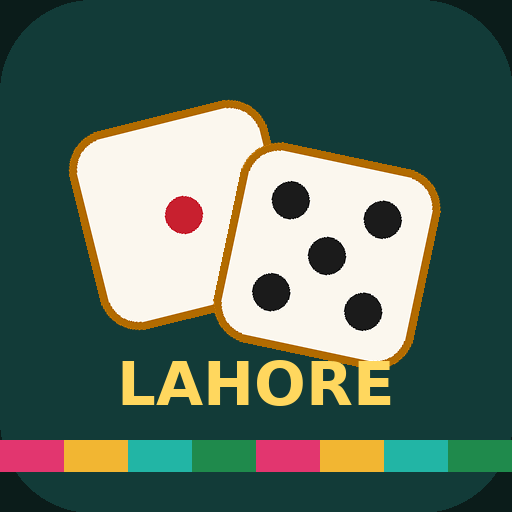
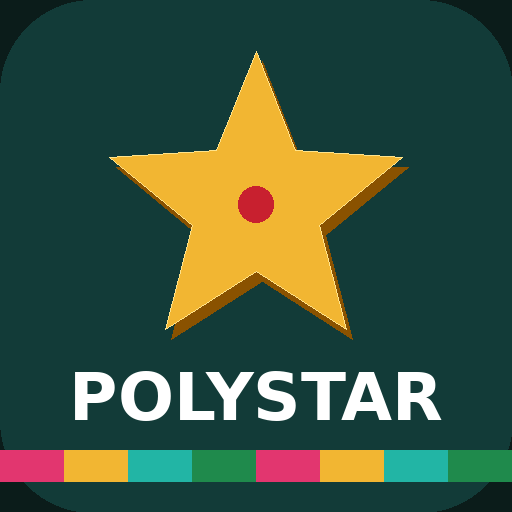
Rebrand to PolyStar: Become a Raees of Lahore
Claude-Session: https://claude.ai/code/session_01Rsdvw9Mjbyzo6TNnQu2srd

diff --git a/index.html b/index.html
@@ -3,8 +3,8 @@
 <head>
 <meta charset="utf-8">
 <meta name="viewport" content="width=device-width, initial-scale=1, viewport-fit=cover">
-<meta name="description" content="Lahore Monopoly: a 3D board game in Pakistani Rupees. Play on one device or online with friends.">
-<title>Lahore Monopoly</title>
+<meta name="description" content="PolyStar: Become a Raees of Lahore. A 3D property game in Pakistani Rupees. Play on one device or online with friends.">
+<title>PolyStar</title>
 <link rel="preconnect" href="https://fonts.googleapis.com">
 <link rel="preconnect" href="https://fonts.gstatic.com" crossorigin>
 <meta name="theme-color" content="#0b1c1a">
@@ -223,7 +223,10 @@ button:focus-visible,input:focus-visible{outline:3px solid #fff;outline-offset:2
 .logo{text-align:center;display:grid;justify-items:center;gap:6px}
 .logo-top{background:var(--rose);color:#fff;font:normal 14px var(--f-game);letter-spacing:.08em;text-transform:uppercase;padding:6px 16px 4px;border-radius:999px;box-shadow:0 4px 0 var(--redE)}
 .logo h1{margin:0;font:normal clamp(56px,15vw,96px)/.92 var(--f-game);color:var(--gold1);text-shadow:0 5px 0 var(--goldE),0 10px 0 #4a2a00,0 18px 30px rgba(0,0,0,.5);text-transform:uppercase;letter-spacing:.01em}
-.logo h1 span{color:#fff;text-shadow:0 5px 0 var(--red2),0 10px 0 #5a0a26,0 18px 30px rgba(0,0,0,.5);font-size:.62em}
+.logo h1 span{color:#fff;text-shadow:0 5px 0 var(--red2),0 10px 0 #5a0a26,0 18px 30px rgba(0,0,0,.5);font-size:1em}
+.tagline{font:normal clamp(17px,4.6vw,24px) var(--f-game);color:#fff;letter-spacing:.03em;text-shadow:0 3px 0 rgba(0,0,0,.45);margin-top:6px}
+.tagline::before,.tagline::after{content:'★';color:var(--gold1);margin:0 .45em;font-size:.8em;vertical-align:.08em}
+.ilogo .tagline{animation:dropIn2 .6s .6s both}
 .logo-sub{color:var(--muted);font-weight:800;font-size:15px}
 .strip{height:8px;border-radius:4px;background:var(--truck);width:min(260px,70%);margin:4px auto 0}
 .facts{display:flex;flex-wrap:wrap;gap:8px;justify-content:center}
@@ -309,7 +312,7 @@ button:focus-visible,input:focus-visible{outline:3px solid #fff;outline-offset:2
 .ilogo{display:grid;justify-items:center;gap:6px}
 .ilogo .logo-top{animation:dropIn2 .7s .1s cubic-bezier(.2,1.5,.4,1) both}
 .ilogo h1{margin:0;font:normal clamp(58px,16vw,110px)/.9 var(--f-game);color:var(--gold1);text-transform:uppercase;text-shadow:0 5px 0 var(--goldE),0 10px 0 #4a2a00,0 20px 34px rgba(0,0,0,.55);animation:logoPop .9s .25s cubic-bezier(.2,1.6,.4,1) both}
-.ilogo h1 span{display:block;margin-top:.18em;color:#fff;font-size:.6em;text-shadow:0 5px 0 var(--red2),0 10px 0 #5a0a26,0 20px 34px rgba(0,0,0,.55);animation:logoPop .9s .45s cubic-bezier(.2,1.6,.4,1) both}
+.ilogo h1 span{color:#fff;font-size:1em;text-shadow:0 5px 0 var(--red2),0 10px 0 #5a0a26,0 20px 34px rgba(0,0,0,.55);animation:logoPop .9s .45s cubic-bezier(.2,1.6,.4,1) both}
 @keyframes logoPop{0%{opacity:0;transform:scale(.3) rotate(-8deg)}100%{opacity:1;transform:none}}
 @keyframes dropIn2{0%{opacity:0;transform:translateY(-40px)}100%{opacity:1;transform:none}}
 .idice{display:flex;gap:26px;perspective:600px;height:70px;align-items:center;animation:dropIn2 .7s .6s both}
@@ -444,7 +447,7 @@ a.gbtn{text-decoration:none;display:inline-block}
 </head>
 <body>
 
-<canvas id="gl" aria-label="3D Lahore Monopoly board"></canvas>
+<canvas id="gl" aria-label="3D PolyStar board"></canvas>
 
 <div class="hud" id="hud" hidden>
   <div id="players"></div>
@@ -488,18 +491,18 @@ a.gbtn{text-decoration:none;display:inline-block}
 <div id="cardView" hidden><div class="cvin" id="cvin"></div></div>
 <div class="modal" id="modal" hidden><div class="mcard" id="mcard"></div></div>
 
-<div id="intro" role="button" tabindex="0" aria-label="Lahore Monopoly is loading. Tap to start when ready.">
+<div id="intro" role="button" tabindex="0" aria-label="PolyStar is loading. Tap to start when ready.">
   <div class="stars"></div>
   <span class="ikite" style="left:8%;top:12%;--a:#e2366f;--b:#f2b632"><i></i></span>
-  <span class="ikite" style="right:10%;top:20%;--a:#22b5a5;--b:#fbf7ee;animation-delay:-2s"><i></i></span>
+  <span class="ikite" style="right:8%;top:6%;--a:#22b5a5;--b:#fbf7ee;animation-delay:-2s"><i></i></span>
   <span class="ikite" style="left:6%;top:64%;--a:#8f5cff;--b:#f08a1c;animation-delay:-1s;width:30px;height:30px"><i></i></span>
   <span class="ikite" style="right:8%;top:70%;--a:#1f8a4c;--b:#e2366f;animation-delay:-3s;width:34px;height:34px"><i></i></span>
   <div class="ic-wrap">
-    <div class="ilogo"><div class="logo-top">Zinda Dilan-e-Lahore</div><h1>Lahore<span>Monopoly</span></h1></div>
+    <div class="ilogo"><div class="logo-top">Zinda Dilan-e-Lahore</div><h1>Poly<span>Star</span></h1><div class="tagline">Become a Raees of Lahore</div></div>
     <div class="idice"><div class="d3" id="dA"></div><div class="d3" id="dB"></div></div>
     <div class="iload" id="iload"><div class="ibar"><i id="ibarFill"></i></div></div>
     <div class="itap" id="itap" hidden>Tap to start</div>
-    <p class="funline" aria-live="polite"><span>Roll the dice, buy Lahore, become a tycoon! 🎲</span></p>
+    <p class="funline" aria-live="polite"><span>Roll the dice and become a Raees of Lahore! 🎲</span></p>
   </div>
   <div class="iskyline"><svg viewBox="0 0 400 120" preserveAspectRatio="xMidYMax slice" aria-hidden="true">
     <g fill="#0a1a18" opacity=".55">
@@ -525,10 +528,11 @@ a.gbtn{text-decoration:none;display:inline-block}
     <button class="ib musicbtn" id="lMusic" aria-label="Music" aria-pressed="true" title="Music on"></button>
     <div class="logo">
       <div class="logo-top">Zinda Dilan-e-Lahore</div>
-      <h1>Lahore<br><span>Monopoly</span></h1>
+      <h1>Poly<span>Star</span></h1>
+      <div class="tagline">Become a Raees of Lahore</div>
       <div class="strip"></div>
       <div class="logo-sub">3D board game · Pakistani Rupees · 100 pawns</div>
-      <p class="funline" aria-live="polite"><span>Roll the dice, buy Lahore, become a tycoon! 🎲</span></p>
+      <p class="funline" aria-live="polite"><span>Roll the dice and become a Raees of Lahore! 🎲</span></p>
     </div>
     <div class="facts">
       <span class="fact">Start <b>Rs 0</b></span>
@@ -794,8 +798,8 @@ function drawCenter(x){
  deck(S*.29,S*.29,'#d93d8c','Qismat','CHANCE');deck(S*.71,S*.71,'#22a597','Mohalla','CHEST');
  x.save();x.translate(S/2,S/2);x.rotate(Math.PI/4);x.textAlign='center';x.textBaseline='middle';
  x.fillStyle='#1b1b1b';rr(x,-412,-122,824,244,30);x.fill();x.fillStyle='#c8202f';rr(x,-400,-110,800,220,24);x.fill();x.lineWidth=8;x.strokeStyle='#fbf7ee';rr(x,-384,-94,768,188,18);x.stroke();
- x.fillStyle='#fbf7ee';x.font='170px "Rozha One", Georgia, serif';x.fillText('LAHORE',0,14);
- x.fillStyle='#1b1b1b';x.font='800 60px Mukta, sans-serif';x.fillText('M O N O P O L Y',0,176);
+ x.fillStyle='#fbf7ee';{let fs=170;x.font=fs+'px "Rozha One", Georgia, serif';while(x.measureText('PolyStar').width>700&&fs>90){fs-=6;x.font=fs+'px "Rozha One", Georgia, serif';}}x.fillText('PolyStar',0,14);
+ x.fillStyle='#1b1b1b';x.font='800 48px Mukta, sans-serif';x.fillText('★ RAEES OF LAHORE ★',0,172);
  x.fillStyle='#1f8a4c';x.font='600 30px Mukta, sans-serif';x.fillText('ZINDA DILAN-E-LAHORE',0,-160);x.restore();
 }
 function drawBoard(){
@@ -1511,7 +1515,7 @@ async function gameLoop(){try{while(true){const p=cur();if(!p.bankrupt)await pla
 function showWinner(w){stopTimer();focusObj=w?w.obj:null;renderPlayers();renderBar(w||G.players[0],[{k:'_n',label:'New game',primary:1,act:()=>newGame()}],'Game over.');
  const rank=[...G.players].sort((a,b)=>netWorth(b)-netWorth(a));
  if(NET.role==='host')bc({t:'over',w:w?w.i:-1,rank:rank.map(q=>q.i),nw:w?netWorth(w):0});
- sfx('win');modal(`<div class="panel win"><div class="trophy">🏆</div><div class="eyebrow">Game over</div><h2>${esc(w?w.name:'Nobody')} owns Lahore</h2><p>Final net worth ${short(w?netWorth(w):0)}</p><p style="margin-top:10px;font-size:13px">${rank.map(q=>esc(q.name)+(q.bankrupt?' (bankrupt)':'')).join(' · ')}</p></div>`,[{k:'new',label:'Play again',primary:1},{k:'x',label:'Look at the board'}]).then(k=>{if(k==='new')newGame();}).catch(()=>{});}
+ sfx('win');modal(`<div class="panel win"><div class="trophy">🏆</div><div class="eyebrow">Game over</div><h2>${esc(w?w.name:'Nobody')} is the Raees of Lahore! 👑</h2><p>Final net worth ${short(w?netWorth(w):0)}</p><p style="margin-top:10px;font-size:13px">${rank.map(q=>esc(q.name)+(q.bankrupt?' (bankrupt)':'')).join(' · ')}</p></div>`,[{k:'new',label:'Play again',primary:1},{k:'x',label:'Look at the board'}]).then(k=>{if(k==='new')newGame();}).catch(()=>{});}
 
 /* ---------------- setup screen ---------------- */
 const NAMES=['You','Ayesha','Bilal','Zara','Hamza','Mahnoor'];
@@ -1719,7 +1723,7 @@ const TIPS=['Loading the streets of Lahore…','Tip: own a whole colour set to b
 function introProgress(){const th=THUMBS.filter(Boolean).length/PAWNS.length,pv=Object.keys(THEME_PREV).length/THEME_KEYS.length;return Math.min(1,(INTRO.fonts?.15:0)+.45*th+.4*pv);}
 const introTimer=setInterval(()=>{if(INTRO.done){clearInterval(introTimer);return;}const el=performance.now()-INTRO.t0;let p=introProgress();
  if(el>9000)p=1;document.getElementById('ibarFill').style.width=Math.round(Math.max(p,Math.min(.92,el/6000))*100)+'%';
- if(!INTRO.ready&&p>=1&&el>1800){INTRO.ready=true;$('#iload').hidden=true;$('#itap').hidden=false;$('#intro').setAttribute('aria-label','Tap to start Lahore Monopoly');}},120);
+ if(!INTRO.ready&&p>=1&&el>1800){INTRO.ready=true;$('#iload').hidden=true;$('#itap').hidden=false;$('#intro').setAttribute('aria-label','Tap to start PolyStar');}},120);
 function introGo(){if(!INTRO.ready||INTRO.done)return;INTRO.done=true;sfx('buy');buzz(30);
  if(MUSIC.on){musicStart();rainStart();}
  const el=$('#intro');el.classList.add('out');setTimeout(()=>{el.hidden=true;},650);}
@@ -1918,7 +1922,7 @@ function drawClientBar(){if(!G||NET.role!=='client')return;const mine=G.players[
  drawBar();}
 function clientOver(d){G.over=true;const w=G.players[d.w];focusObj=w?w.obj:null;sfx('win');
  bar={p:w||G.players[0],btns:[{k:'_n',label:'Back to menu',primary:1,act:()=>newGame()}],status:'Game over.'};drawBar();
- modal(`<div class="panel win"><div class="trophy">🏆</div><div class="eyebrow">Game over</div><h2>${esc(w?w.name:'Nobody')} owns Lahore</h2><p>Final net worth ${short(d.nw||0)}</p><p style="margin-top:10px;font-size:13px">${d.rank.map(i=>esc(G.players[i].name)).join(' · ')}</p></div>`,[{k:'menu',label:'Back to menu',primary:1},{k:'x',label:'Look at the board'}]).then(k=>{if(k==='menu')newGame();}).catch(()=>{});}
+ modal(`<div class="panel win"><div class="trophy">🏆</div><div class="eyebrow">Game over</div><h2>${esc(w?w.name:'Nobody')} is the Raees of Lahore! 👑</h2><p>Final net worth ${short(d.nw||0)}</p><p style="margin-top:10px;font-size:13px">${d.rank.map(i=>esc(G.players[i].name)).join(' · ')}</p></div>`,[{k:'menu',label:'Back to menu',primary:1},{k:'x',label:'Look at the board'}]).then(k=>{if(k==='menu')newGame();}).catch(()=>{});}
 function clientClosed(){if(NET.role!=='client')return;const inGame=G&&!G.over;NET.role='local';NET.hostConn=null;
  if(inGame){toast('Lost connection to the host');modal(`<div class="panel win"><div class="eyebrow">Connection lost</div><h2>The host left the game</h2><p>The game can't continue without the host's device.</p></div>`,[{k:'menu',label:'Back to menu',primary:1}]).then(()=>newGame()).catch(()=>{});}
  else if(!G){netMsg('The host closed the room.');showNetStart();}}
@@ -1932,7 +1936,7 @@ function netTeardown(){const r=NET.role;
 function showNetStart(){$('#netStart').hidden=false;$('#roomBox').hidden=true;}
 function showRoom(){$('#netStart').hidden=true;$('#roomBox').hidden=false;
  let base=location.href.split('#')[0].split('?')[0];const link=base+'?room='+NET.code;
- $('#roomCode').textContent=NET.code;$('#roomLink').value=link;$('#waBtn').href='https://wa.me/?text='+encodeURIComponent(`Join my Lahore Monopoly game! Room ${NET.code}: ${link}`);renderRoom();}
+ $('#roomCode').textContent=NET.code;$('#roomLink').value=link;$('#waBtn').href='https://wa.me/?text='+encodeURIComponent(`Join my PolyStar game and become a Raees of Lahore! Room ${NET.code}: ${link}`);renderRoom();}
 function renderRoom(){const host=NET.role==='host',mi=host?0:NET.me;
  $('#hostActs').hidden=!host;
  $('#roomList').innerHTML=NET.lobby.map((e,i)=>{const tags=[e.kind==='host'?'HOST':e.kind==='cpu'?'CPU':'ONLINE'];if(i===mi)tags.unshift('YOU');

diff --git a/README.md b/README.md
@@ -1,6 +1,8 @@
-# Lahore Monopoly
+# PolyStar
 
-A 3D Monopoly game set in Lahore, priced in Pakistani Rupees. Shahdara is the cheapest square (Rs 6 Lac) and DHA Phase 6 the most expensive (Rs 40 Lac). There are 100 pawns, CPU opponents and sound effects. You can play on one device or online with friends.
+**Become a Raees of Lahore.**
+
+A 3D property-trading game set in Lahore, priced in Pakistani Rupees. Shahdara is the cheapest square (Rs 6 Lac) and DHA Phase 6 the most expensive (Rs 40 Lac). There are 100 pawns, CPU opponents and sound effects. You can play on one device or online with friends.
 
 ## Put it online with GitHub Pages (free, about 5 minutes)
 
